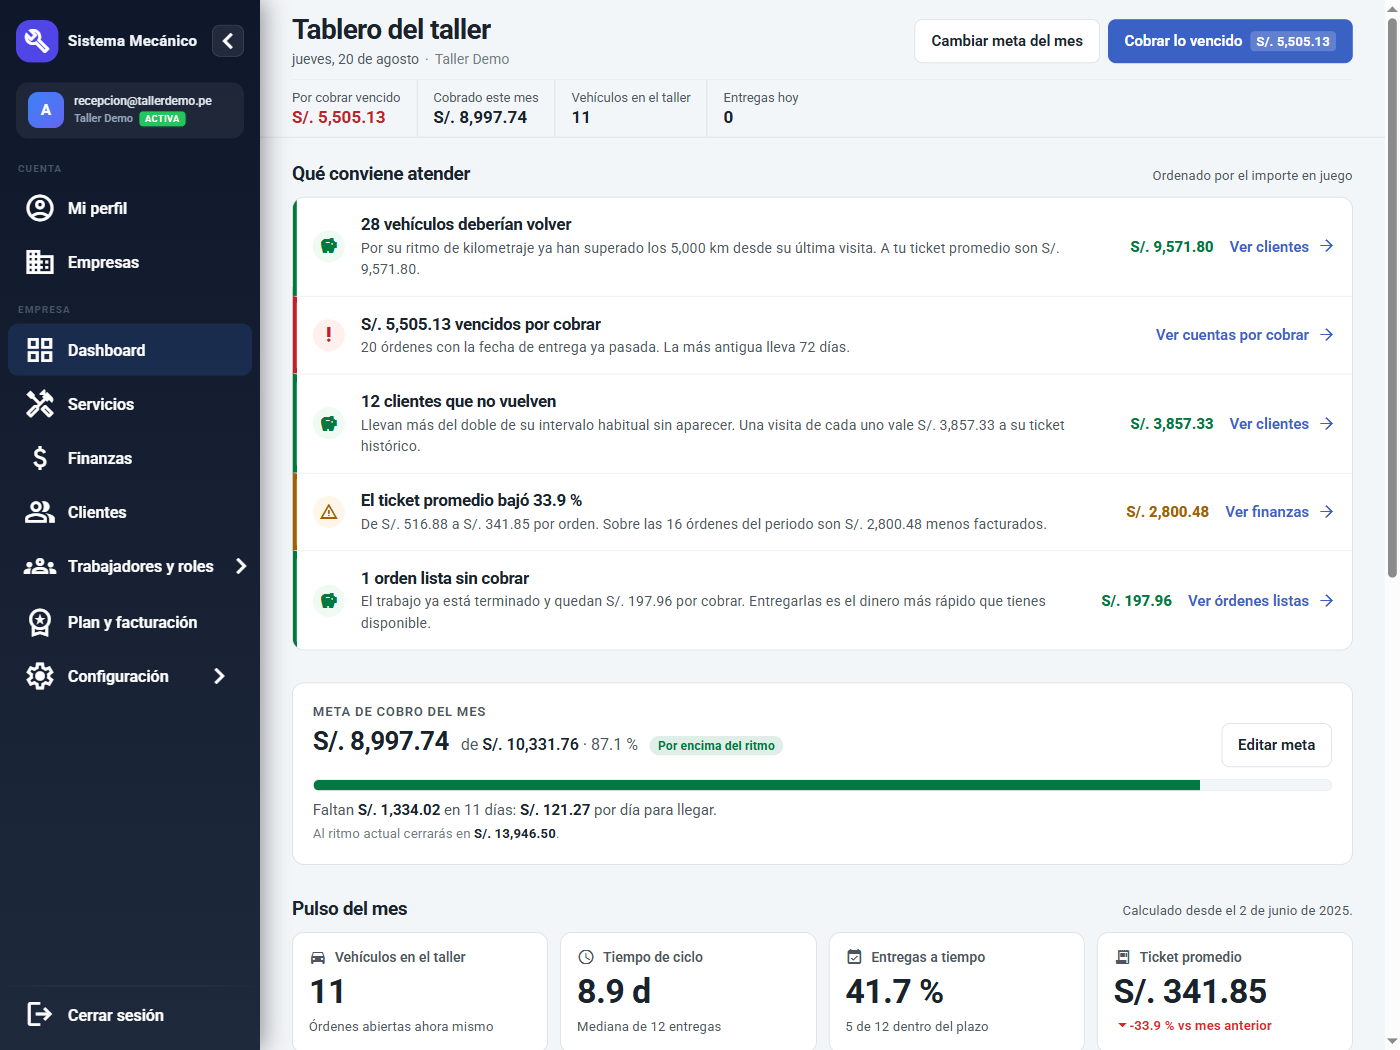
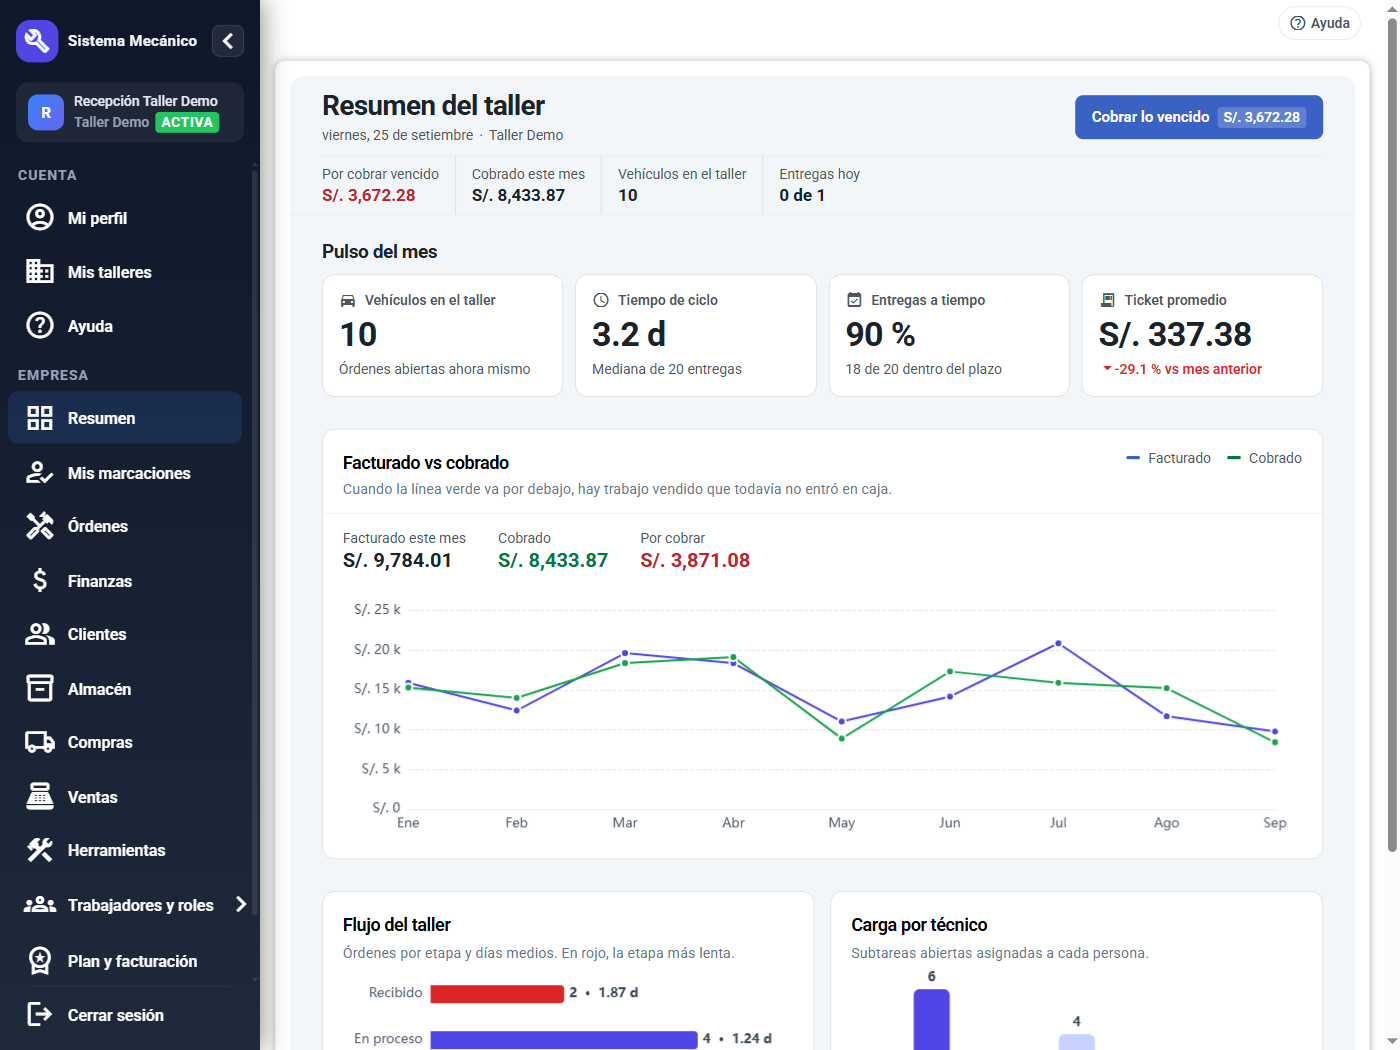
fix(naix): no prometer lo que el plan no trae y aclarar que el comprobante no es SUNAT
- El comprobante del taller se presenta como interno: no reemplaza la boleta
  ni la factura electrónica de SUNAT. «Serie y correlativo» sonaba a SUNAT y
  pasa a «numeración propia».
- El bloque «Cliente» decía que toda orden emite PDF y que las cuentas por
  cobrar están al día sin plan: el PDF es desde Taller y la cartera, de Pro.
- La ficha del cliente no muestra saldo pendiente: se describe lo que sí
  enseña (historial, servicios y gasto).
- Las capturas del tablero (portada de Naix y de /casos/) enseñaban las metas
  y «Qué conviene atender», que solo trae Multitaller. Se rehacen desde un
  taller en plan Pro y el pie lo dice.
- «El resto viene en los tres»: son cuatro planes.

Claude-Session: https://claude.ai/code/session_01BZWtVmm1LUyvva9hzzL3eP

diff --git a/src/data/software-taller.ts b/src/data/software-taller.ts
@@ -11,10 +11,14 @@ export const hero = {
     'Órdenes de servicio, control de clientes y base de datos de vehículos en una sola ' +
     'plataforma. Se usa desde el mostrador, el taller y el celular.',
   footnote: 'Sin tarjeta de crédito. Migramos tus datos actuales sin costo.',
-  panelCaption: 'Vista del tablero',
+  // La captura es de un taller en plan Pro, sin las metas ni la lista de «Qué
+  // conviene atender»: esas son `module-insights`, que solo trae Multitaller, y
+  // enseñarlas aquí prometía a quien prueba Pro algo que no va a ver.
+  panelCaption: 'Tablero de dirección · plan Pro',
   panelAlt:
-    'Tablero de Naix: cobranza vencida, meta de cobro del mes, vehículos en el taller y ' +
-    'la lista de asuntos que conviene atender primero.',
+    'Resumen del taller en Naix, plan Pro: cobranza vencida, lo cobrado en el mes, ' +
+    'vehículos en el taller, tiempo de ciclo, entregas a tiempo, ticket promedio y ' +
+    'facturado frente a cobrado.',
 };
 
 export const problems = [
@@ -44,8 +48,8 @@ export const modules: { icon: IconName; title: string; text: string; plan?: stri
     icon: 'user-plus',
     title: 'Control de clientes',
     text:
-      'Ficha única con datos de contacto, vehículos asociados, visitas anteriores, ' +
-      'trabajos realizados y saldo pendiente.',
+      'Ficha única con datos de contacto, vehículos asociados, historial de órdenes, ' +
+      'servicios realizados y lo que ha gastado en el taller.',
   },
   {
     icon: 'car',
@@ -74,7 +78,8 @@ export const modules: { icon: IconName; title: string; text: string; plan?: stri
     title: 'Cotizaciones y comprobantes',
     text:
       'Cotización dentro de la orden, con IGV incluido, sin IGV o + IGV, y comprobante ' +
-      'en PDF con los datos del taller, su serie y su correlativo.',
+      'en PDF con los datos del taller y su propia numeración. Es un comprobante interno ' +
+      'para tu cliente: no reemplaza la boleta ni la factura electrónica de SUNAT.',
     plan: 'Planes Taller y Pro',
   },
 ];
@@ -82,7 +87,7 @@ export const modules: { icon: IconName; title: string; text: string; plan?: stri
 /** Aclaración al pie de la rejilla de módulos. */
 export const modulesNote =
   'Los módulos con etiqueta de plan están disponibles en ese plan en adelante. ' +
-  'El resto viene en los tres, incluido el gratuito.';
+  'El resto viene en todos los planes, incluido el gratuito.';
 
 /**
  * Los tres momentos del taller, cada uno con su captura del producto.
@@ -132,13 +137,15 @@ export const features = [
     eyebrow: 'Cliente',
     title: 'Lo que se le cobra al cliente queda documentado',
     text:
-      'Cada orden emite su comprobante en PDF con los datos del taller, el detalle de ' +
-      'servicios, lo pagado y el saldo. La ficha del cliente guarda sus visitas, y desde ' +
-      'ahí se le llama o se le escribe por WhatsApp.',
+      'Desde el plan Taller, cada orden emite su comprobante en PDF con los datos del ' +
+      'taller, el detalle de servicios, lo pagado y el saldo. Es un comprobante interno ' +
+      'para tu cliente: no reemplaza la boleta ni la factura electrónica de SUNAT. La ' +
+      'ficha del cliente guarda sus visitas, y desde ahí se le llama o se le escribe por ' +
+      'WhatsApp.',
     bullets: [
-      'Comprobante en PDF con serie y correlativo propios',
+      'Comprobante interno en PDF, con numeración propia del taller',
       'Historial de visitas y trabajos por vehículo',
-      'Saldo pendiente y cuentas por cobrar al día',
+      'Saldo pendiente de cada orden; las cuentas por cobrar del taller, en el plan Pro',
     ],
     placeholder: 'Comprobante de servicio en PDF',
     alt:

diff --git a/src/data/casos.ts b/src/data/casos.ts
@@ -66,13 +66,14 @@ export const CASES: CaseStudy[] = [
     title: 'Naix, software para talleres mecánicos',
     text:
       'Nuestro producto propio, en operación en talleres de Lima. Órdenes de servicio, ' +
-      'control de clientes, base de datos de vehículos y el tablero que dice qué ' +
-      'conviene atender primero.',
+      'control de clientes, base de datos de vehículos y un tablero con lo cobrado, lo ' +
+      'vencido y la carga de cada técnico.',
     placeholder: 'Captura de Naix',
     imageKey: 'naix',
     imageAlt:
-      'Tablero de Naix con la cobranza vencida, la meta de cobro del mes, los vehículos ' +
-      'en el taller y la lista de asuntos ordenada por el importe en juego.',
+      'Resumen del taller en Naix, plan Pro: cobranza vencida, lo cobrado en el mes, ' +
+      'vehículos en el taller, tiempo de ciclo, entregas a tiempo, ticket promedio y ' +
+      'facturado frente a cobrado.',
     link: { label: 'Ver el producto', href: ROUTES.softwareTaller },
     featured: true,
   },
